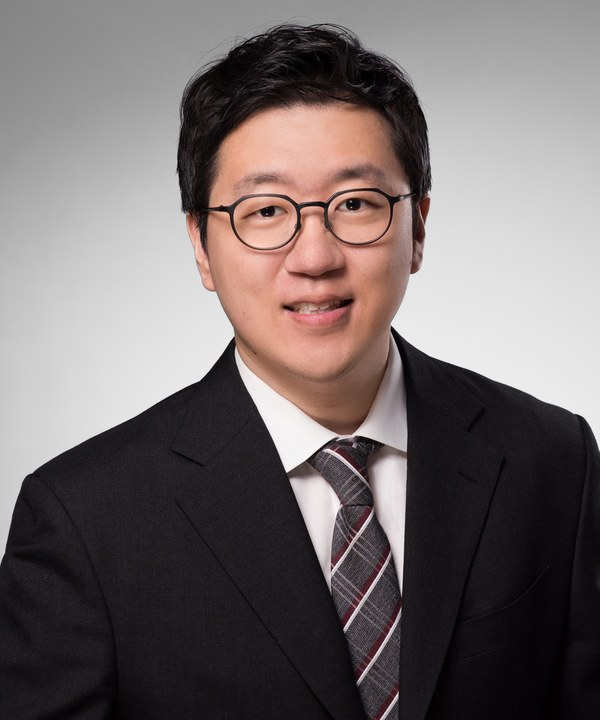
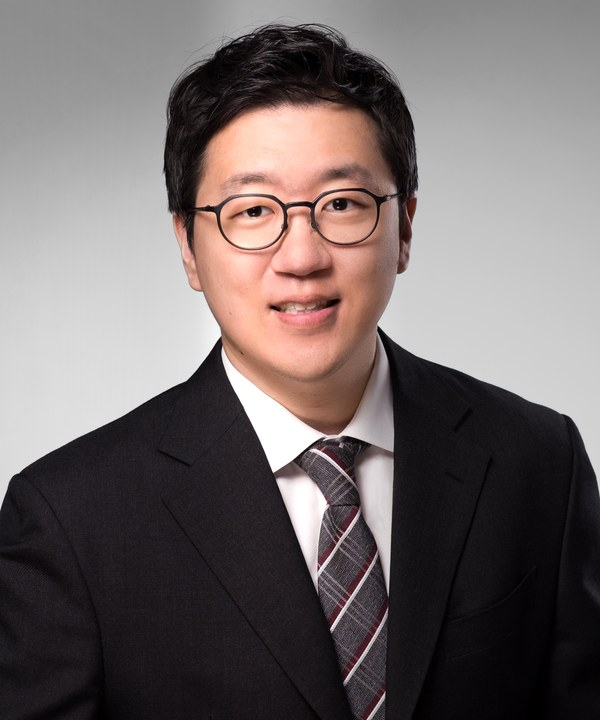
Deploying to gh-pages from @ frintstones/frintstones.github.io@380d2d6f1a0c2db1075e0a52a1e31118c02753fa 🚀

diff --git a/blog/2021/diagrams/index.html b/blog/2021/diagrams/index.html
@@ -140,8 +140,8 @@ sequenceDiagram
 </code></pre></div></div>
 
 <div class="jekyll-diagrams diagrams mermaid">
-  <svg id="mermaid-1784643725956" width="100%" xmlns="http://www.w3.org/2000/svg" height="100%" style="max-width:450px;" viewbox="-50 -10 450 231"><style>#mermaid-1784643725956 .label{font-family:trebuchet ms,verdana,arial;color:#333}#mermaid-1784643725956 .node circle,#mermaid-1784643725956 .node ellipse,#mermaid-1784643725956 .node polygon,#mermaid-1784643725956 .node rect{fill:#ececff;stroke:#9370db;stroke-width:1px}#mermaid-1784643725956 .node.clickable{cursor:pointer}#mermaid-1784643725956 .arrowheadPath{fill:#333}#mermaid-1784643725956 .edgePath .path{stroke:#333;stroke-width:1.5px}#mermaid-1784643725956 .edgeLabel{background-color:#e8e8e8}#mermaid-1784643725956 .cluster rect{fill:#ffffde!important;stroke:#aa3!important;stroke-width:1px!important}#mermaid-1784643725956 .cluster text{fill:#333}#mermaid-1784643725956 div.mermaidTooltip{position:absolute;text-align:center;max-width:200px;padding:2px;font-family:trebuchet ms,verdana,arial;font-size:12px;background:#ffffde;border:1px solid #aa3;border-radius:2px;pointer-events:none;z-index:100}#mermaid-1784643725956 .actor{stroke:#ccf;fill:#ececff}#mermaid-1784643725956 text.actor{fill:#000;stroke:none}#mermaid-1784643725956 .actor-line{stroke:grey}#mermaid-1784643725956 .messageLine0{marker-end:"url(#arrowhead)"}#mermaid-1784643725956 .messageLine0,#mermaid-1784643725956 .messageLine1{stroke-width:1.5;stroke-dasharray:"2 2";stroke:#333}#mermaid-1784643725956 #arrowhead{fill:#333}#mermaid-1784643725956 #crosshead path{fill:#333!important;stroke:#333!important}#mermaid-1784643725956 .messageText{fill:#333;stroke:none}#mermaid-1784643725956 .labelBox{stroke:#ccf;fill:#ececff}#mermaid-1784643725956 .labelText,#mermaid-1784643725956 .loopText{fill:#000;stroke:none}#mermaid-1784643725956 .loopLine{stroke-width:2;stroke-dasharray:"2 2";marker-end:"url(#arrowhead)";stroke:#ccf}#mermaid-1784643725956 .note{stroke:#aa3;fill:#fff5ad}#mermaid-1784643725956 .noteText{fill:#000;stroke:none;font-family:trebuchet ms,verdana,arial;font-size:14px}#mermaid-1784643725956 .section{stroke:none;opacity:.2}#mermaid-1784643725956 .section0{fill:rgba(102,102,255,.49)}#mermaid-1784643725956 .section2{fill:#fff400}#mermaid-1784643725956 .section1,#mermaid-1784643725956 .section3{fill:#fff;opacity:.2}#mermaid-1784643725956 .sectionTitle0,#mermaid-1784643725956 .sectionTitle1,#mermaid-1784643725956 .sectionTitle2,#mermaid-1784643725956 .sectionTitle3{fill:#333}#mermaid-1784643725956 .sectionTitle{text-anchor:start;font-size:11px;text-height:14px}#mermaid-1784643725956 .grid .tick{stroke:#d3d3d3;opacity:.3;shape-rendering:crispEdges}#mermaid-1784643725956 .grid path{stroke-width:0}#mermaid-1784643725956 .today{fill:none;stroke:red;stroke-width:2px}#mermaid-1784643725956 .task{stroke-width:2}#mermaid-1784643725956 .taskText{text-anchor:middle;font-size:11px}#mermaid-1784643725956 .taskTextOutsideRight{fill:#000;text-anchor:start;font-size:11px}#mermaid-1784643725956 .taskTextOutsideLeft{fill:#000;text-anchor:end;font-size:11px}#mermaid-1784643725956 .taskText0,#mermaid-1784643725956 .taskText1,#mermaid-1784643725956 .taskText2,#mermaid-1784643725956 .taskText3{fill:#fff}#mermaid-1784643725956 .task0,#mermaid-1784643725956 .task1,#mermaid-1784643725956 .task2,#mermaid-1784643725956 .task3{fill:#8a90dd;stroke:#534fbc}#mermaid-1784643725956 .taskTextOutside0,#mermaid-1784643725956 .taskTextOutside1,#mermaid-1784643725956 .taskTextOutside2,#mermaid-1784643725956 .taskTextOutside3{fill:#000}#mermaid-1784643725956 .active0,#mermaid-1784643725956 .active1,#mermaid-1784643725956 .active2,#mermaid-1784643725956 .active3{fill:#bfc7ff;stroke:#534fbc}#mermaid-1784643725956 .activeText0,#mermaid-1784643725956 .activeText1,#mermaid-1784643725956 .activeText2,#mermaid-1784643725956 .activeText3{fill:#000!important}#mermaid-1784643725956 .done0,#mermaid-1784643725956 .done1,#mermaid-1784643725956 .done2,#mermaid-1784643725956 .done3{stroke:grey;fill:#d3d3d3;stroke-width:2}#mermaid-1784643725956 .doneText0,#mermaid-1784643725956 .doneText1,#mermaid-1784643725956 .doneText2,#mermaid-1784643725956 .doneText3{fill:#000!important}#mermaid-1784643725956 .crit0,#mermaid-1784643725956 .crit1,#mermaid-1784643725956 .crit2,#mermaid-1784643725956 .crit3{stroke:#f88;fill:red;stroke-width:2}#mermaid-1784643725956 .activeCrit0,#mermaid-1784643725956 .activeCrit1,#mermaid-1784643725956 .activeCrit2,#mermaid-1784643725956 .activeCrit3{stroke:#f88;fill:#bfc7ff;stroke-width:2}#mermaid-1784643725956 .doneCrit0,#mermaid-1784643725956 .doneCrit1,#mermaid-1784643725956 .doneCrit2,#mermaid-1784643725956 .doneCrit3{stroke:#f88;fill:#d3d3d3;stroke-width:2;cursor:pointer;shape-rendering:crispEdges}#mermaid-1784643725956 .activeCritText0,#mermaid-1784643725956 .activeCritText1,#mermaid-1784643725956 .activeCritText2,#mermaid-1784643725956 .activeCritText3,#mermaid-1784643725956 .doneCritText0,#mermaid-1784643725956 .doneCritText1,#mermaid-1784643725956 .doneCritText2,#mermaid-1784643725956 .doneCritText3{fill:#000!important}#mermaid-1784643725956 .titleText{text-anchor:middle;font-size:18px;fill:#000}#mermaid-1784643725956 g.classGroup text{fill:#9370db;stroke:none;font-family:trebuchet ms,verdana,arial;font-size:10px}#mermaid-1784643725956 g.classGroup rect{fill:#ececff;stroke:#9370db}#mermaid-1784643725956 g.classGroup line{stroke:#9370db;stroke-width:1}#mermaid-1784643725956 .classLabel .box{stroke:none;stroke-width:0;fill:#ececff;opacity:.5}#mermaid-1784643725956 .classLabel .label{fill:#9370db;font-size:10px}#mermaid-1784643725956 .relation{stroke:#9370db;stroke-width:1;fill:none}#mermaid-1784643725956 #compositionEnd,#mermaid-1784643725956 #compositionStart{fill:#9370db;stroke:#9370db;stroke-width:1}#mermaid-1784643725956 #aggregationEnd,#mermaid-1784643725956 #aggregationStart{fill:#ececff;stroke:#9370db;stroke-width:1}#mermaid-1784643725956 #dependencyEnd,#mermaid-1784643725956 #dependencyStart,#mermaid-1784643725956 #extensionEnd,#mermaid-1784643725956 #extensionStart{fill:#9370db;stroke:#9370db;stroke-width:1}#mermaid-1784643725956 .branch-label,#mermaid-1784643725956 .commit-id,#mermaid-1784643725956 .commit-msg{fill:#d3d3d3;color:#d3d3d3}</style>
-<style>#mermaid-1784643725956 {
+  <svg id="mermaid-1784644191713" width="100%" xmlns="http://www.w3.org/2000/svg" height="100%" style="max-width:450px;" viewbox="-50 -10 450 231"><style>#mermaid-1784644191713 .label{font-family:trebuchet ms,verdana,arial;color:#333}#mermaid-1784644191713 .node circle,#mermaid-1784644191713 .node ellipse,#mermaid-1784644191713 .node polygon,#mermaid-1784644191713 .node rect{fill:#ececff;stroke:#9370db;stroke-width:1px}#mermaid-1784644191713 .node.clickable{cursor:pointer}#mermaid-1784644191713 .arrowheadPath{fill:#333}#mermaid-1784644191713 .edgePath .path{stroke:#333;stroke-width:1.5px}#mermaid-1784644191713 .edgeLabel{background-color:#e8e8e8}#mermaid-1784644191713 .cluster rect{fill:#ffffde!important;stroke:#aa3!important;stroke-width:1px!important}#mermaid-1784644191713 .cluster text{fill:#333}#mermaid-1784644191713 div.mermaidTooltip{position:absolute;text-align:center;max-width:200px;padding:2px;font-family:trebuchet ms,verdana,arial;font-size:12px;background:#ffffde;border:1px solid #aa3;border-radius:2px;pointer-events:none;z-index:100}#mermaid-1784644191713 .actor{stroke:#ccf;fill:#ececff}#mermaid-1784644191713 text.actor{fill:#000;stroke:none}#mermaid-1784644191713 .actor-line{stroke:grey}#mermaid-1784644191713 .messageLine0{marker-end:"url(#arrowhead)"}#mermaid-1784644191713 .messageLine0,#mermaid-1784644191713 .messageLine1{stroke-width:1.5;stroke-dasharray:"2 2";stroke:#333}#mermaid-1784644191713 #arrowhead{fill:#333}#mermaid-1784644191713 #crosshead path{fill:#333!important;stroke:#333!important}#mermaid-1784644191713 .messageText{fill:#333;stroke:none}#mermaid-1784644191713 .labelBox{stroke:#ccf;fill:#ececff}#mermaid-1784644191713 .labelText,#mermaid-1784644191713 .loopText{fill:#000;stroke:none}#mermaid-1784644191713 .loopLine{stroke-width:2;stroke-dasharray:"2 2";marker-end:"url(#arrowhead)";stroke:#ccf}#mermaid-1784644191713 .note{stroke:#aa3;fill:#fff5ad}#mermaid-1784644191713 .noteText{fill:#000;stroke:none;font-family:trebuchet ms,verdana,arial;font-size:14px}#mermaid-1784644191713 .section{stroke:none;opacity:.2}#mermaid-1784644191713 .section0{fill:rgba(102,102,255,.49)}#mermaid-1784644191713 .section2{fill:#fff400}#mermaid-1784644191713 .section1,#mermaid-1784644191713 .section3{fill:#fff;opacity:.2}#mermaid-1784644191713 .sectionTitle0,#mermaid-1784644191713 .sectionTitle1,#mermaid-1784644191713 .sectionTitle2,#mermaid-1784644191713 .sectionTitle3{fill:#333}#mermaid-1784644191713 .sectionTitle{text-anchor:start;font-size:11px;text-height:14px}#mermaid-1784644191713 .grid .tick{stroke:#d3d3d3;opacity:.3;shape-rendering:crispEdges}#mermaid-1784644191713 .grid path{stroke-width:0}#mermaid-1784644191713 .today{fill:none;stroke:red;stroke-width:2px}#mermaid-1784644191713 .task{stroke-width:2}#mermaid-1784644191713 .taskText{text-anchor:middle;font-size:11px}#mermaid-1784644191713 .taskTextOutsideRight{fill:#000;text-anchor:start;font-size:11px}#mermaid-1784644191713 .taskTextOutsideLeft{fill:#000;text-anchor:end;font-size:11px}#mermaid-1784644191713 .taskText0,#mermaid-1784644191713 .taskText1,#mermaid-1784644191713 .taskText2,#mermaid-1784644191713 .taskText3{fill:#fff}#mermaid-1784644191713 .task0,#mermaid-1784644191713 .task1,#mermaid-1784644191713 .task2,#mermaid-1784644191713 .task3{fill:#8a90dd;stroke:#534fbc}#mermaid-1784644191713 .taskTextOutside0,#mermaid-1784644191713 .taskTextOutside1,#mermaid-1784644191713 .taskTextOutside2,#mermaid-1784644191713 .taskTextOutside3{fill:#000}#mermaid-1784644191713 .active0,#mermaid-1784644191713 .active1,#mermaid-1784644191713 .active2,#mermaid-1784644191713 .active3{fill:#bfc7ff;stroke:#534fbc}#mermaid-1784644191713 .activeText0,#mermaid-1784644191713 .activeText1,#mermaid-1784644191713 .activeText2,#mermaid-1784644191713 .activeText3{fill:#000!important}#mermaid-1784644191713 .done0,#mermaid-1784644191713 .done1,#mermaid-1784644191713 .done2,#mermaid-1784644191713 .done3{stroke:grey;fill:#d3d3d3;stroke-width:2}#mermaid-1784644191713 .doneText0,#mermaid-1784644191713 .doneText1,#mermaid-1784644191713 .doneText2,#mermaid-1784644191713 .doneText3{fill:#000!important}#mermaid-1784644191713 .crit0,#mermaid-1784644191713 .crit1,#mermaid-1784644191713 .crit2,#mermaid-1784644191713 .crit3{stroke:#f88;fill:red;stroke-width:2}#mermaid-1784644191713 .activeCrit0,#mermaid-1784644191713 .activeCrit1,#mermaid-1784644191713 .activeCrit2,#mermaid-1784644191713 .activeCrit3{stroke:#f88;fill:#bfc7ff;stroke-width:2}#mermaid-1784644191713 .doneCrit0,#mermaid-1784644191713 .doneCrit1,#mermaid-1784644191713 .doneCrit2,#mermaid-1784644191713 .doneCrit3{stroke:#f88;fill:#d3d3d3;stroke-width:2;cursor:pointer;shape-rendering:crispEdges}#mermaid-1784644191713 .activeCritText0,#mermaid-1784644191713 .activeCritText1,#mermaid-1784644191713 .activeCritText2,#mermaid-1784644191713 .activeCritText3,#mermaid-1784644191713 .doneCritText0,#mermaid-1784644191713 .doneCritText1,#mermaid-1784644191713 .doneCritText2,#mermaid-1784644191713 .doneCritText3{fill:#000!important}#mermaid-1784644191713 .titleText{text-anchor:middle;font-size:18px;fill:#000}#mermaid-1784644191713 g.classGroup text{fill:#9370db;stroke:none;font-family:trebuchet ms,verdana,arial;font-size:10px}#mermaid-1784644191713 g.classGroup rect{fill:#ececff;stroke:#9370db}#mermaid-1784644191713 g.classGroup line{stroke:#9370db;stroke-width:1}#mermaid-1784644191713 .classLabel .box{stroke:none;stroke-width:0;fill:#ececff;opacity:.5}#mermaid-1784644191713 .classLabel .label{fill:#9370db;font-size:10px}#mermaid-1784644191713 .relation{stroke:#9370db;stroke-width:1;fill:none}#mermaid-1784644191713 #compositionEnd,#mermaid-1784644191713 #compositionStart{fill:#9370db;stroke:#9370db;stroke-width:1}#mermaid-1784644191713 #aggregationEnd,#mermaid-1784644191713 #aggregationStart{fill:#ececff;stroke:#9370db;stroke-width:1}#mermaid-1784644191713 #dependencyEnd,#mermaid-1784644191713 #dependencyStart,#mermaid-1784644191713 #extensionEnd,#mermaid-1784644191713 #extensionStart{fill:#9370db;stroke:#9370db;stroke-width:1}#mermaid-1784644191713 .branch-label,#mermaid-1784644191713 .commit-id,#mermaid-1784644191713 .commit-msg{fill:#d3d3d3;color:#d3d3d3}</style>
+<style>#mermaid-1784644191713 {
     color: rgb(0, 0, 0);
     font: normal normal 400 normal 16px / normal "Times New Roman";
   }</style>